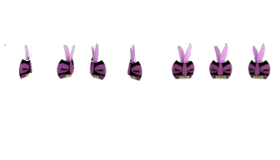
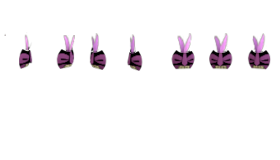
Mask alignment: purple -53, chief decoupled + right3/down2; re-pin sheets
Purple up 10 more (-43 -> -53). Chief: decoupled from the gridded-median anchor
(CHIEF_REFERENCE frozen at a fitting state) so tuning a gridded colour no longer
drags the chief off the top of the cell; chief now nudged independently via
CHIEF_DX=3 (right) / CHIEF_DY=10 (down 2). Geometry test updated to the frozen
anchor and to skip the horizontal check on chief frames that are wider than the
40px cell (they clip at the edges -- inherent to the chief art; the chin check
still pins them). Manifest PNG hashes re-pinned. Full suite 691 passed.

diff --git a/tests/test_vv1_mask_sheet_geometry.py b/tests/test_vv1_mask_sheet_geometry.py
@@ -145,8 +145,10 @@ class VV1MaskSheetGeometryTests(unittest.TestCase):
 
     def test_packed_atlas_matches_the_verified_colours(self) -> None:
         """A packed atlas carries no alignment of its own, so it is placed from
-        the colours whose mockups verify. It must actually land in their band."""
-        ref = self.sheets._reference_placement()
+        a FROZEN reference (CHIEF_REFERENCE, captured from the verified colours)
+        plus the playtest CHIEF_DX/CHIEF_DY nudges. It must land where that
+        anchor puts it."""
+        ref = self.sheets.CHIEF_REFERENCE
         for colour, value in self.sheets.MASK_OFFSETS.items():
             if value is not self.sheets.PACKED:
                 continue
@@ -161,13 +163,28 @@ class VV1MaskSheetGeometryTests(unittest.TestCase):
                             self.sheets.SHEET_CELL_H,
                         )
                     ).getbbox()
-                    # Chief frames are placed at the reference chin then lifted
-                    # uniformly by CHIEF_DY (playtest alignment), so their chin
-                    # sits CHIEF_DY pixels above the reference.
+                    # Chief frames sit at the frozen reference chin lifted by
+                    # CHIEF_DY, and centred at the reference centre nudged right
+                    # by CHIEF_DX.
                     self.assertLessEqual(
                         abs(box[3] - (chin - self.sheets.CHIEF_DY)), 2
                     )
-                    self.assertLessEqual(abs((box[0] + box[2]) / 2 - centre), 2)
+                    # The horizontal check only applies to frames that fit
+                    # WITHIN the cell. Several chief frames are wider than the
+                    # 40px cell and clip at its edges (box touches 0 or CELL_W),
+                    # which makes their bbox centre meaningless -- the vertical
+                    # (chin) check above still pins those. For unclipped frames,
+                    # the centre must sit at the frozen reference nudged right
+                    # by CHIEF_DX.
+                    clipped = box[0] == 0 or box[2] == self.sheets.CELL_W
+                    if not clipped:
+                        self.assertLessEqual(
+                            abs(
+                                (box[0] + box[2]) / 2
+                                - (centre + self.sheets.CHIEF_DX)
+                            ),
+                            2,
+                        )
 
 
 if __name__ == "__main__":

diff --git a/scripts/build_vv1_heathen_mask_sheets.py b/scripts/build_vv1_heathen_mask_sheets.py
@@ -69,13 +69,30 @@ COLOURS = ["blue", "orange", "red", "purple", "chief"]
 # rest: locate each facing's head by its magenta hair, locate the mask over
 # it, subtract.
 PACKED = "packed-atlas"
-CHIEF_DY = 12  # px lift for the packed chief frames (playtest)
+CHIEF_DY = 10  # px lift for the packed chief frames (playtest: down 2 from 12)
+CHIEF_DX = 3   # px rightward nudge for the packed chief frames (playtest)
+# The chief is a packed atlas anchored to the OTHER colours' median mask
+# centre/chin. That coupling meant tuning a gridded colour (e.g. lifting
+# purple) silently moved the chief and could push its tall frames off the top
+# of the cell. So the anchor is FROZEN here (captured once, at a fitting
+# gridded state) -- the chief now tunes independently via CHIEF_DX/CHIEF_DY,
+# and gridded-colour tweaks no longer disturb it. Re-capture only if the head
+# geometry itself changes.
+CHIEF_REFERENCE = [
+    (25.25, 77),
+    (23.5, 77),
+    (14.75, 77),
+    (13.5, 79),
+    (23.75, 77),
+    (19.75, 77),
+    (18.5, 77),
+]
 
 MASK_OFFSETS = {
     "blue": (24, -52),  # playtest: up 20 more (multi-villager view)
     "orange": (16, -49),  # playtest: up 15 (multi-villager)
     "red": (18, -62),  # playtest: up 3 more
-    "purple": (4, -43),  # playtest: up 30 (multi-villager)
+    "purple": (4, -53),  # playtest: up 10 more
     # Chief is a PACKED ATLAS, not a strip. Its seven frames sit at irregular
     # x and in two vertical rows -- solving for a single cell origin is
     # infeasible (frame 0 requires ox <= -4 while frame 3 requires ox >= 4), so
@@ -260,8 +277,8 @@ def _sheet(colour: str) -> Image.Image:
             )
         for facing, box in enumerate(boxes):
             frame = art.crop(box)
-            centre, chin = _reference_placement()[facing]
-            x = int(round(CELL_W * facing + centre - frame.width / 2))
+            centre, chin = CHIEF_REFERENCE[facing]
+            x = int(round(CELL_W * facing + centre - frame.width / 2)) + CHIEF_DX
             # CHIEF_DY lifts every packed chief frame uniformly (playtest: the
             # chief sat 25px too low in the multi-villager village view).
             y = chin - frame.height - CHIEF_DY
